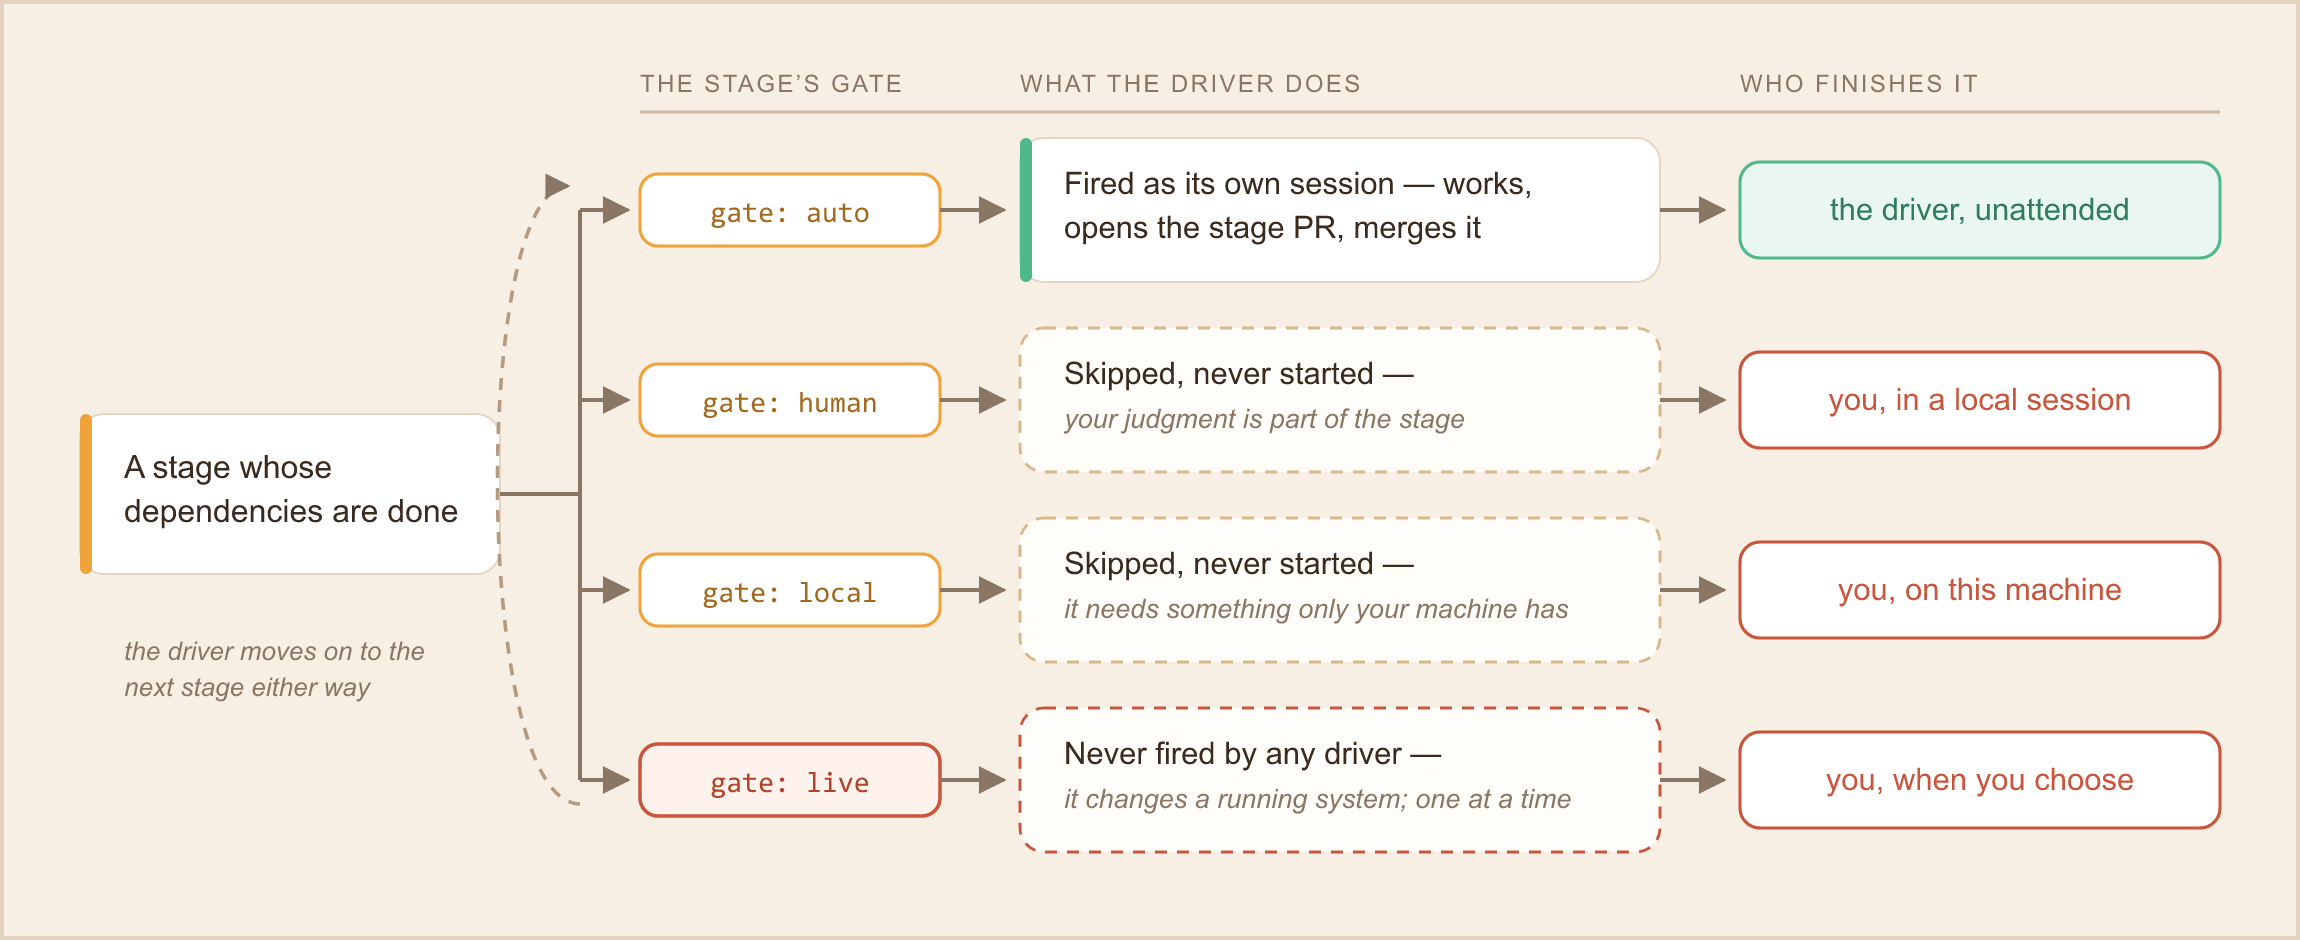
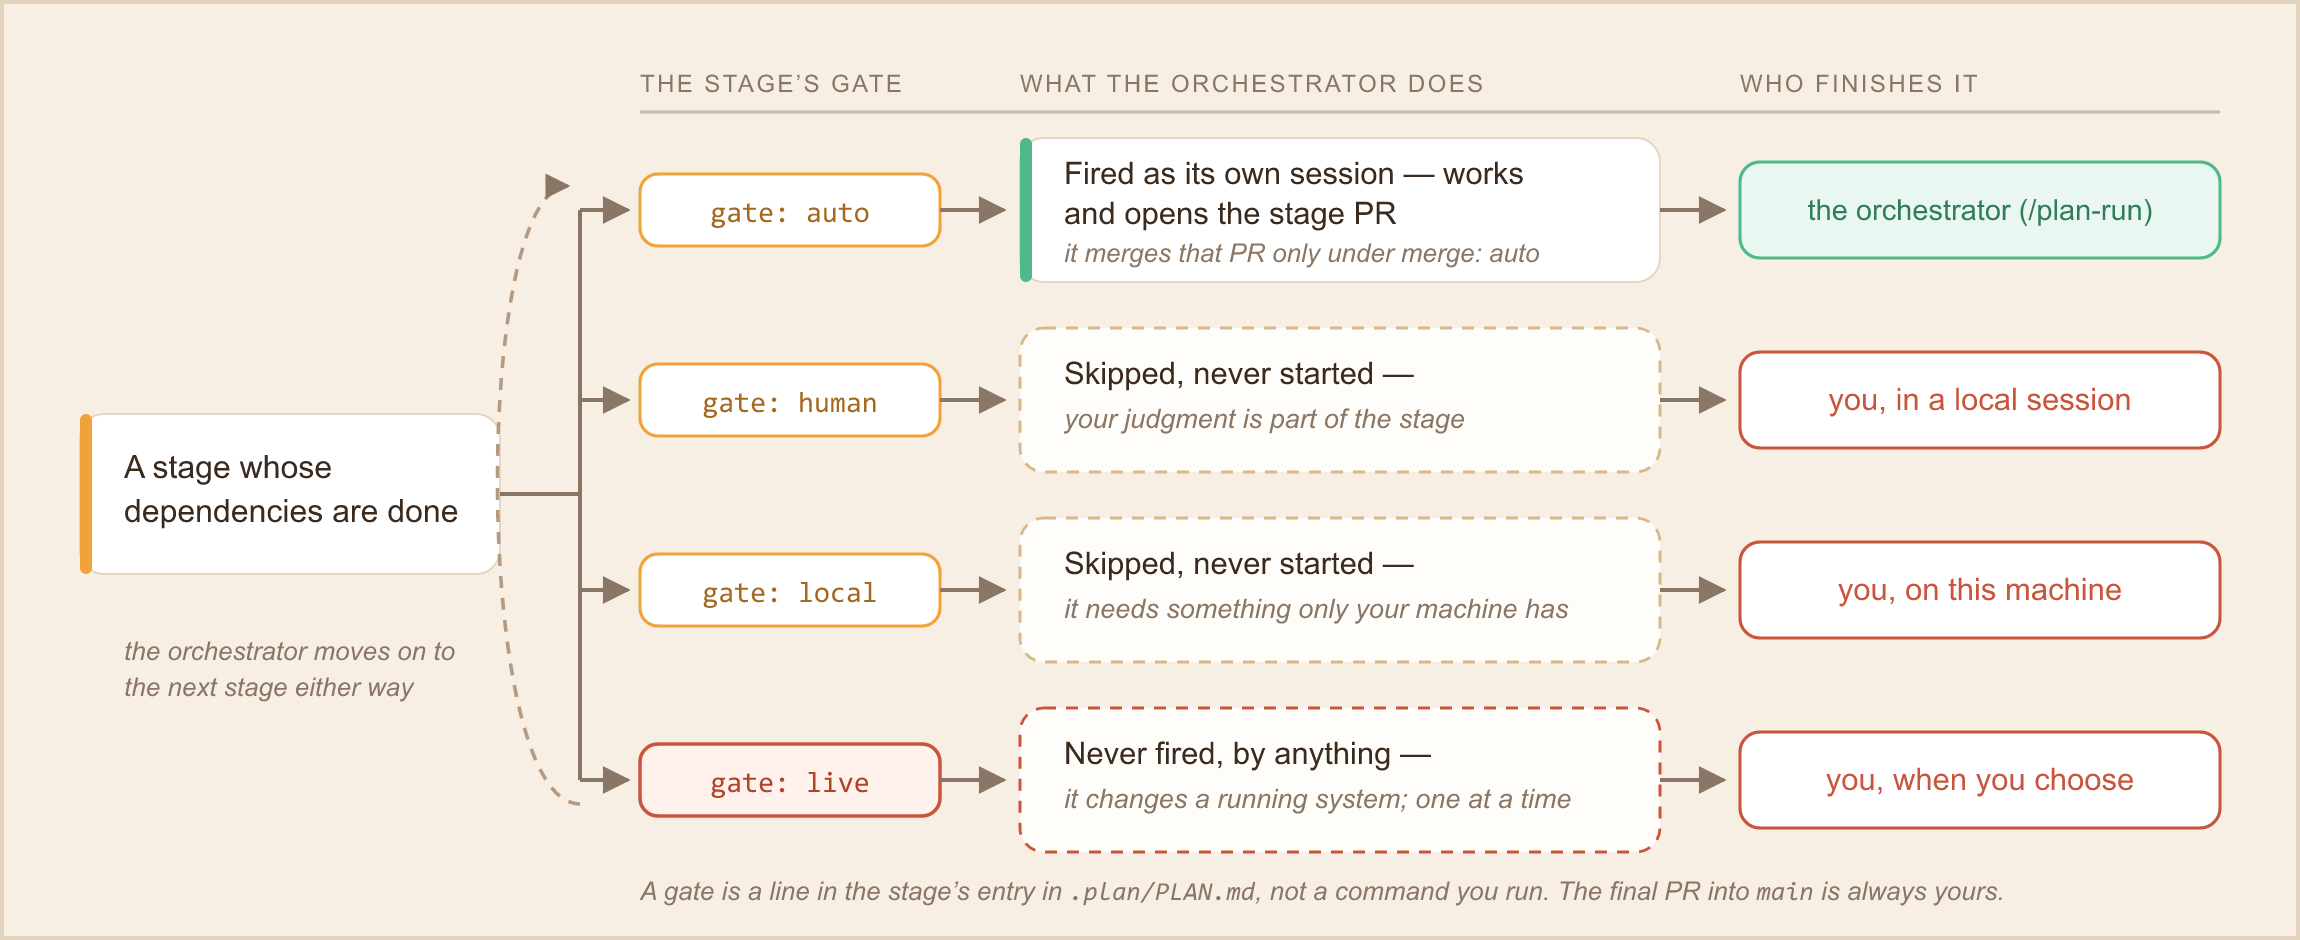
docs: act on the four-persona read of the diagrams
Four readers (intermediate engineer, classic architect, copy-paster,
non-engineer) read the two diagrams cold. Fixed what they caught:

- "PSR" appeared nowhere else in this repo; the lane is now "PLUGIN DOES".
- "/stage-run xN" read as something to paste literally; now "/stage-run <N>",
  and "/plan-stages" carries its argument.
- gates.svg said "driver"; the page it sits on says "orchestrator".
- gates.svg implied a fired stage always merges itself; it now says that
  happens only under "merge: auto", and that the final PR into main is yours.
- "Final PR into main" now says you merge it, matching the README.
- The Testing bracket started at Build; acceptance checks are written during
  planning, so it now starts there.
- gates.svg notes that a gate is a line in .plan/PLAN.md, not a command.

Refs #230

diff --git a/docs/ON-THE-RUN.md b/docs/ON-THE-RUN.md
@@ -86,7 +86,7 @@ or `skipped`, or what is left is gated, `blocked`, or waiting on those. It
 stops outright only on a dead run. The end report lists every gated stage
 with the command to run it yourself.
 
-[![What a driver runs on its own: a gate auto stage is fired unattended and merges itself, while gate human, gate local and gate live stages are skipped and left for you — and the driver carries on with the next stage either way.](diagrams/gates.svg)](diagrams/gates.svg)
+[![What the orchestrator runs on its own: a gate auto stage is fired unattended and opens its own PR, while gate human, gate local and gate live stages are skipped and left for you — and the orchestrator carries on with the next stage either way.](diagrams/gates.svg)](diagrams/gates.svg)
 
 When every stage is settled, run `plan-close`: it proposes the final PR into
 `main`, which you merge yourself. `plan-run` never opens or merges that PR.
